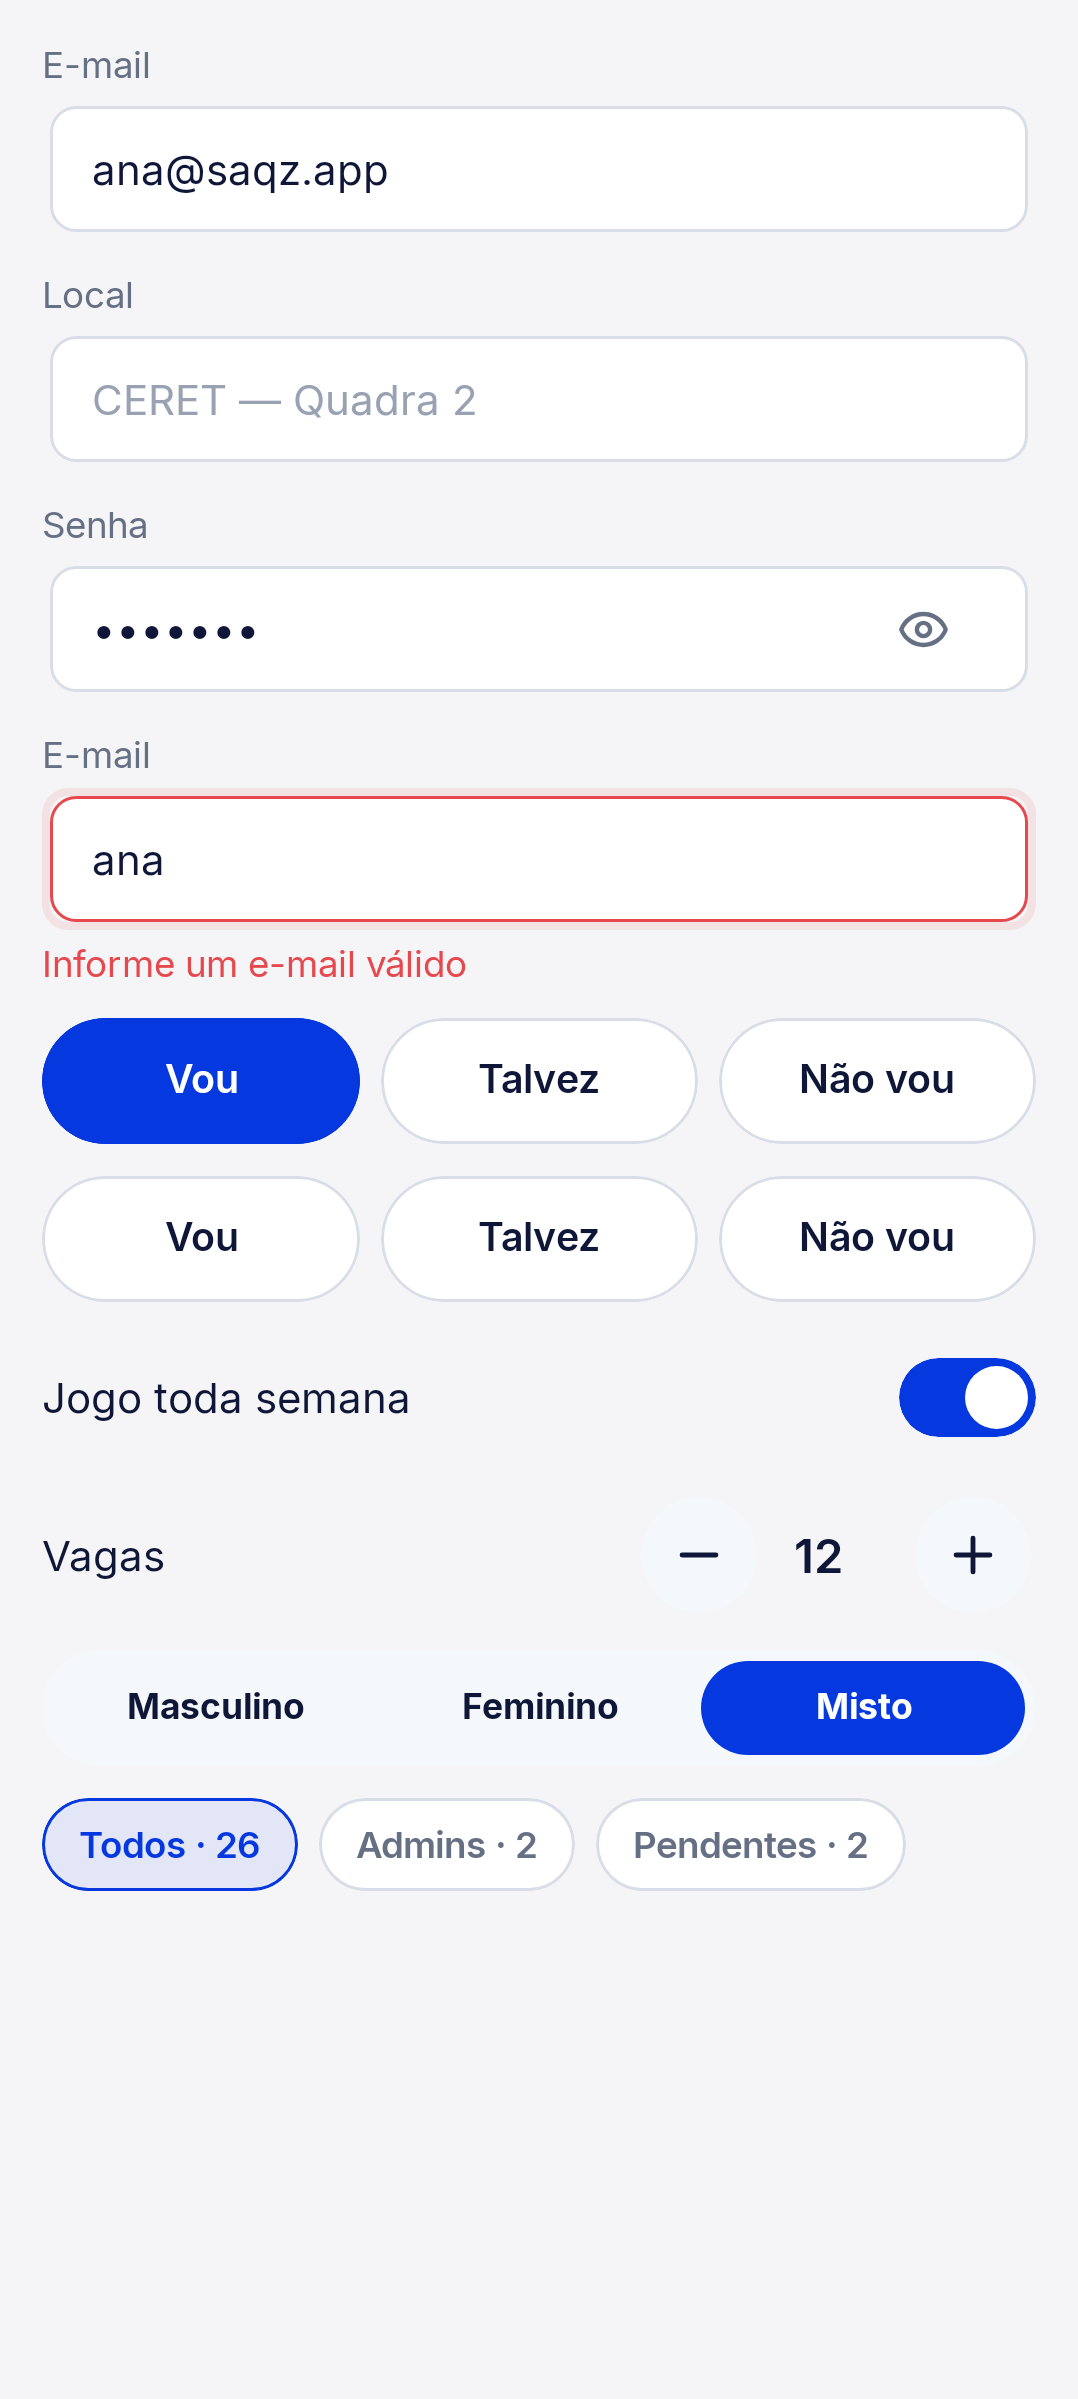
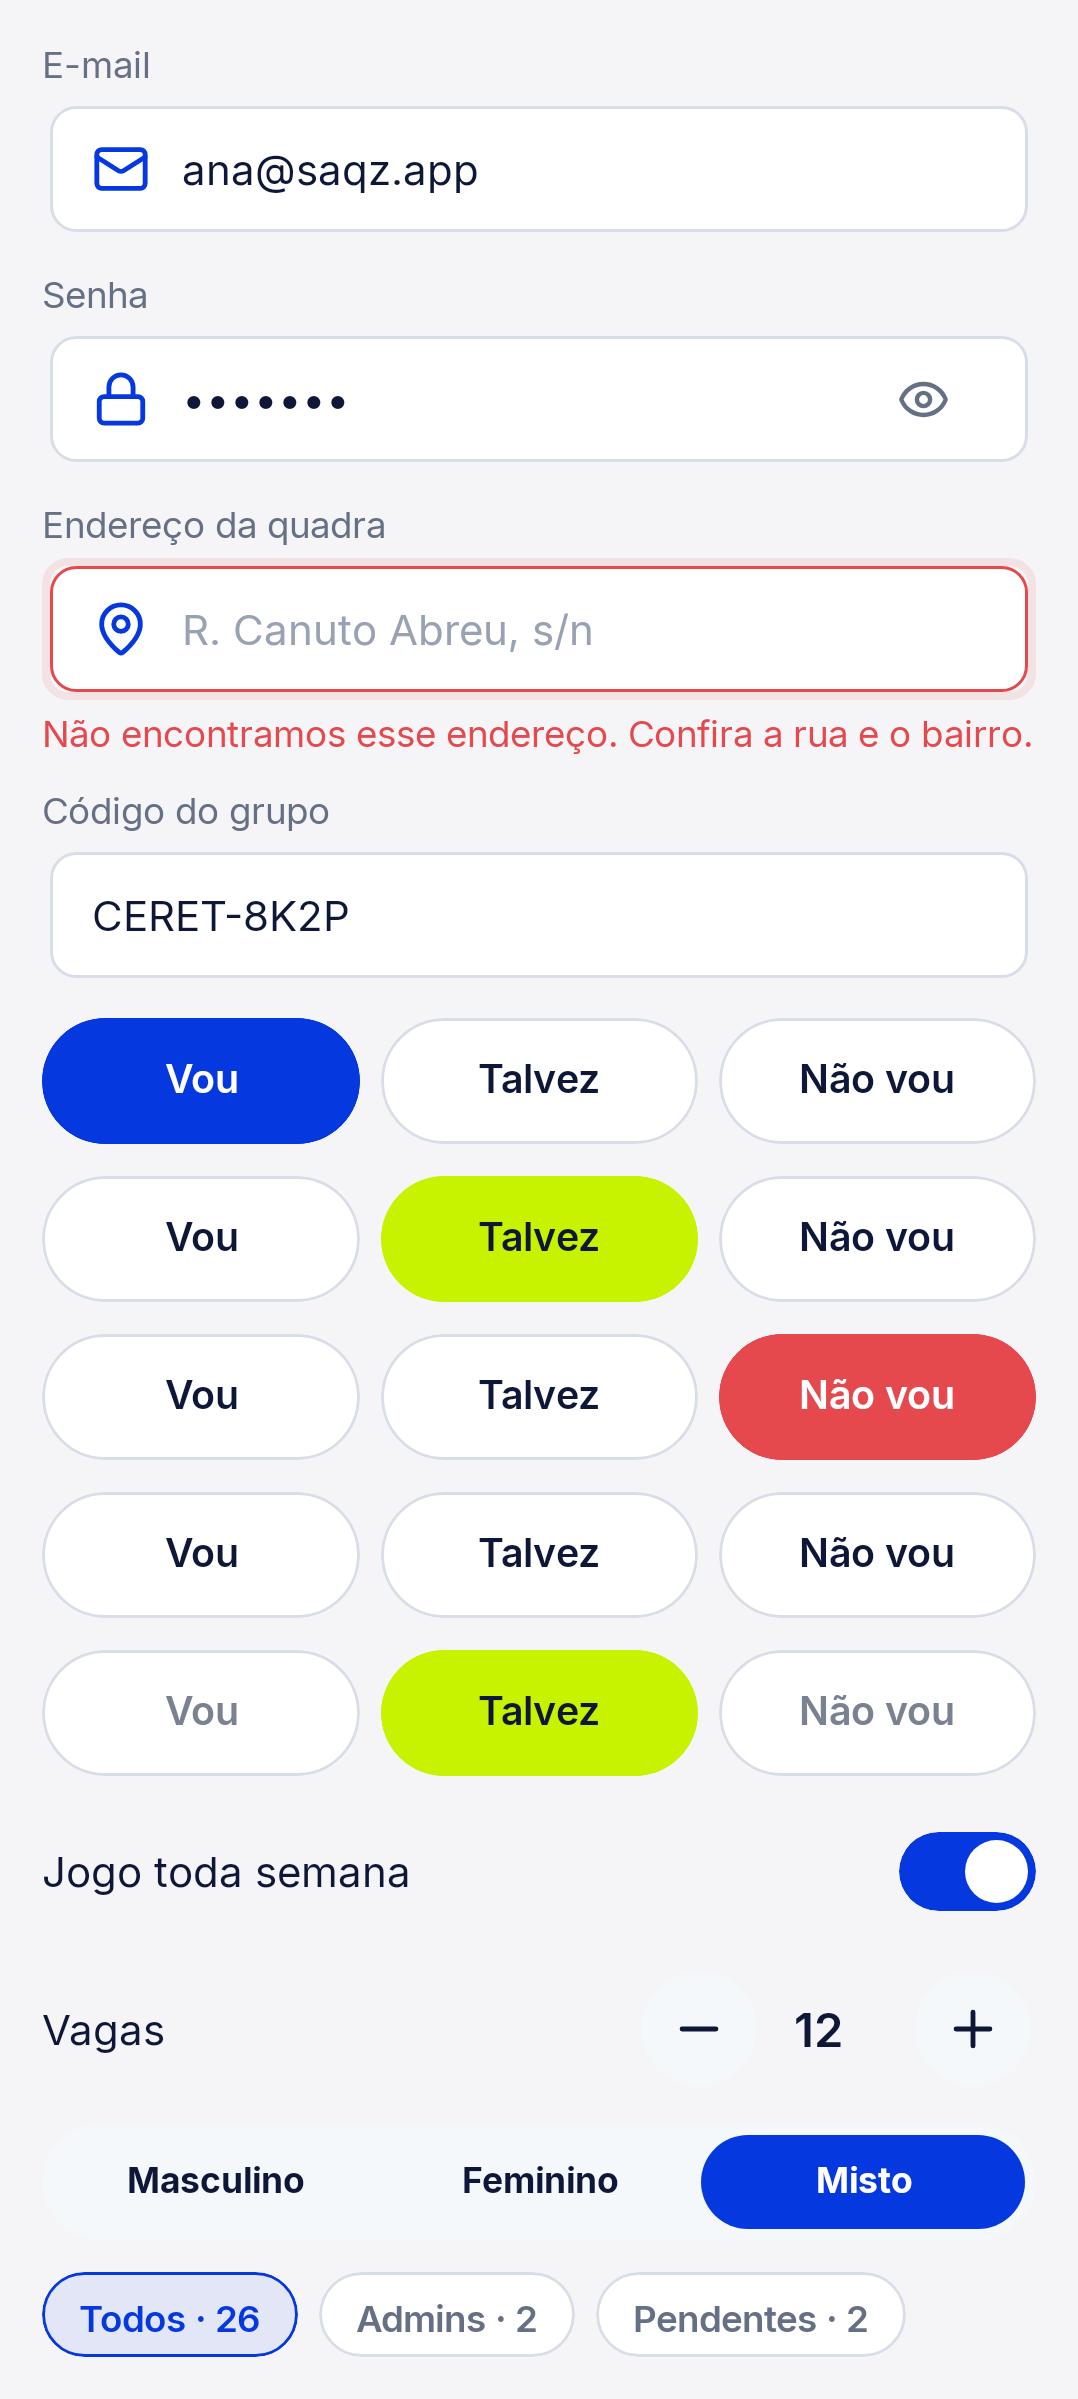
test(android-app): catálogo cobre os estados que o export mostra e o render conferiu
Regravação canônica do catálogo com as cenas fechando os buracos que a
comparação bloco a bloco contra o fluxo 10 expôs. Só a cena mudou — nenhum
componente foi tocado.

Estados que não estavam sendo conferidos porque não estavam em cena nenhuma:

* IconButton `filled` e `enabled = false` — a cena tinha `soft` duas vezes
* Button com `leadingContent`, e o loading em largura cheia como no 10d
* Input com `leadingContent`: o ícone da frente é do chamador, e três dos
  quatro campos do 10f o usam
* AttendanceSelector nos três preenchimentos sólidos e na linha desabilitada —
  é o estado onde o VUL-45 escondeu um contraste de 1,01:1
* StatusChip nos seis tons; em uma linha só o último saía cortado
* Spinner `onDark`, que só se lê sobre a caixa azul do 10o

Divergência residual virou ticket: VUL-56 a VUL-62.

diff --git a/mobile/android-app/src/test/kotlin/br/com/saqz/androidapp/SaqzScreenshotTest.kt b/mobile/android-app/src/test/kotlin/br/com/saqz/androidapp/SaqzScreenshotTest.kt
@@ -9,6 +9,7 @@ import androidx.compose.foundation.layout.Row
 import androidx.compose.foundation.layout.fillMaxSize
 import androidx.compose.foundation.layout.fillMaxWidth
 import androidx.compose.foundation.layout.padding
+import androidx.compose.foundation.shape.CircleShape
 import androidx.compose.material.Text
 import androidx.compose.runtime.Composable
 import androidx.compose.ui.Alignment
@@ -128,25 +129,66 @@ class SaqzScreenshotTest {
         SaqzButton("Cancelar", onClick = {}, variant = SaqzButtonVariant.Ghost, fullWidth = true)
         Row(horizontalArrangement = Arrangement.spacedBy(8.dp)) {
             SaqzButton("Criar jogo", onClick = {}, size = SaqzButtonSize.Sm)
-            SaqzButton("Criando grupo", onClick = {}, loading = true)
             SaqzButton("Criar grupo", onClick = {}, enabled = false)
         }
+        // Ícone da frente e loading em largura cheia: são as duas linhas que o export
+        // desenha assim, e num Row de três o desabilitado quebrava o rótulo em duas.
+        SaqzButton(
+            "Criar próximo jogo",
+            onClick = {},
+            fullWidth = true,
+            leadingContent = { SaqzIcon(SaqzIcons.Plus, tint = it) },
+        )
+        SaqzButton("Criando grupo", onClick = {}, loading = true, fullWidth = true)
         Row(horizontalArrangement = Arrangement.spacedBy(8.dp)) {
             SaqzIconButton({}, "Voltar") { SaqzIcon(SaqzIcons.ChevronLeft) }
             SaqzIconButton({}, "Notificações", dot = true) { SaqzIcon(SaqzIcons.Bell) }
             SaqzIconButton({}, "Buscar", soft = true) { SaqzIcon(SaqzIcons.Search) }
-            SaqzIconButton({}, "Adicionar", soft = true) { SaqzIcon(SaqzIcons.Plus) }
+            SaqzIconButton({}, "Adicionar", filled = true) {
+                SaqzIcon(SaqzIcons.Plus, tint = SaqzTheme.colors.onPrimary)
+            }
+            SaqzIconButton({}, "Excluir", enabled = false) {
+                SaqzIcon(SaqzIcons.Trash, tint = SaqzTheme.colors.disabledForeground)
+            }
         }
     }
 
     @Test
     fun forms() = gallery("ds-formularios") {
-        SaqzInput(TextFieldValue("ana@saqz.app"), {}, label = "E-mail", kind = SaqzInputKind.Email)
-        SaqzInput(TextFieldValue(""), {}, label = "Local", placeholder = "CERET — Quadra 2")
-        SaqzInput(TextFieldValue("segredo"), {}, label = "Senha", kind = SaqzInputKind.Password)
-        SaqzInput(TextFieldValue("ana"), {}, label = "E-mail", errorText = "Informe um e-mail válido")
+        // O ícone da frente é do chamador (`leadingContent`), então sem ele na cena o
+        // slot não estava sendo conferido — e é ele que o export mostra em três dos
+        // quatro campos do 10f.
+        SaqzInput(
+            TextFieldValue("ana@saqz.app"),
+            {},
+            label = "E-mail",
+            kind = SaqzInputKind.Email,
+            leadingContent = { SaqzIcon(SaqzIcons.Mail, tint = SaqzTheme.colors.primary) },
+        )
+        SaqzInput(
+            TextFieldValue("segredo"),
+            {},
+            label = "Senha",
+            kind = SaqzInputKind.Password,
+            leadingContent = { SaqzIcon(SaqzIcons.Lock, tint = SaqzTheme.colors.primary) },
+        )
+        SaqzInput(
+            TextFieldValue(""),
+            {},
+            label = "Endereço da quadra",
+            placeholder = "R. Canuto Abreu, s/n",
+            errorText = "Não encontramos esse endereço. Confira a rua e o bairro.",
+            leadingContent = { SaqzIcon(SaqzIcons.Pin, tint = SaqzTheme.colors.primary) },
+        )
+        SaqzInput(TextFieldValue("CERET-8K2P"), {}, label = "Código do grupo")
+        // Os três preenchimentos sólidos, a linha em repouso e a desabilitada. A última
+        // é a que faltava: o contraste de 1,01:1 do VUL-45 passou justamente por não
+        // estar em nenhuma cena.
         SaqzAttendanceSelector(value = SaqzAttendance.Going, onSelect = {})
+        SaqzAttendanceSelector(value = SaqzAttendance.Maybe, onSelect = {})
+        SaqzAttendanceSelector(value = SaqzAttendance.Out, onSelect = {})
         SaqzAttendanceSelector(value = null, onSelect = {})
+        SaqzAttendanceSelector(value = SaqzAttendance.Maybe, onSelect = {}, enabled = false)
         SaqzSwitch(checked = true, onCheckedChange = {}, label = "Jogo toda semana")
         SaqzStepper(value = 12, onValueChange = {}, min = 4, max = 24, label = "Vagas")
         SaqzSegmented(listOf("Masculino", "Feminino", "Misto"), selected = 2, onSelect = {})
@@ -188,12 +230,17 @@ class SaqzScreenshotTest {
             )
         }
         SaqzCard(tone = SaqzCardTone.Soft) {
+            // Os seis tons, na mesma peça e na mesma nomenclatura do 10j. Em uma linha
+            // só o último chip saía cortado pela margem — duas linhas mostram todos.
             Row(horizontalArrangement = Arrangement.spacedBy(8.dp)) {
-                SaqzStatusChip("Pendente", tone = SaqzChipTone.Warning, dot = true)
+                SaqzStatusChip("Pendente", tone = SaqzChipTone.Neutral)
+                SaqzStatusChip("Admin", tone = SaqzChipTone.Brand)
+                SaqzStatusChip("Mensalista", tone = SaqzChipTone.Accent)
+            }
+            Row(horizontalArrangement = Arrangement.spacedBy(8.dp)) {
                 SaqzStatusChip("Vou", tone = SaqzChipTone.Success, dot = true)
-                SaqzStatusChip("Talvez", tone = SaqzChipTone.Accent)
-                SaqzStatusChip("Não vou", tone = SaqzChipTone.Error)
-                SaqzStatusChip("Reserva", tone = SaqzChipTone.Neutral)
+                SaqzStatusChip("Talvez", tone = SaqzChipTone.Warning, dot = true)
+                SaqzStatusChip("Não vou", tone = SaqzChipTone.Error, dot = true)
             }
         }
     }
@@ -213,6 +260,13 @@ class SaqzScreenshotTest {
             SaqzSpinner(size = 16.dp)
             SaqzSpinner(size = 20.dp)
             SaqzSpinner(size = 30.dp)
+            // "sobre azul" do 10o: `onDark` só existe para este fundo, e fora dele o
+            // spinner branco some no canvas — sem a caixa azul não dá para conferir.
+            Box(
+                modifier = Modifier.background(SaqzTheme.colors.primary, CircleShape).padding(8.dp),
+            ) {
+                SaqzSpinner(size = 30.dp, onDark = true)
+            }
         }
         Row(
             horizontalArrangement = Arrangement.spacedBy(12.dp),
